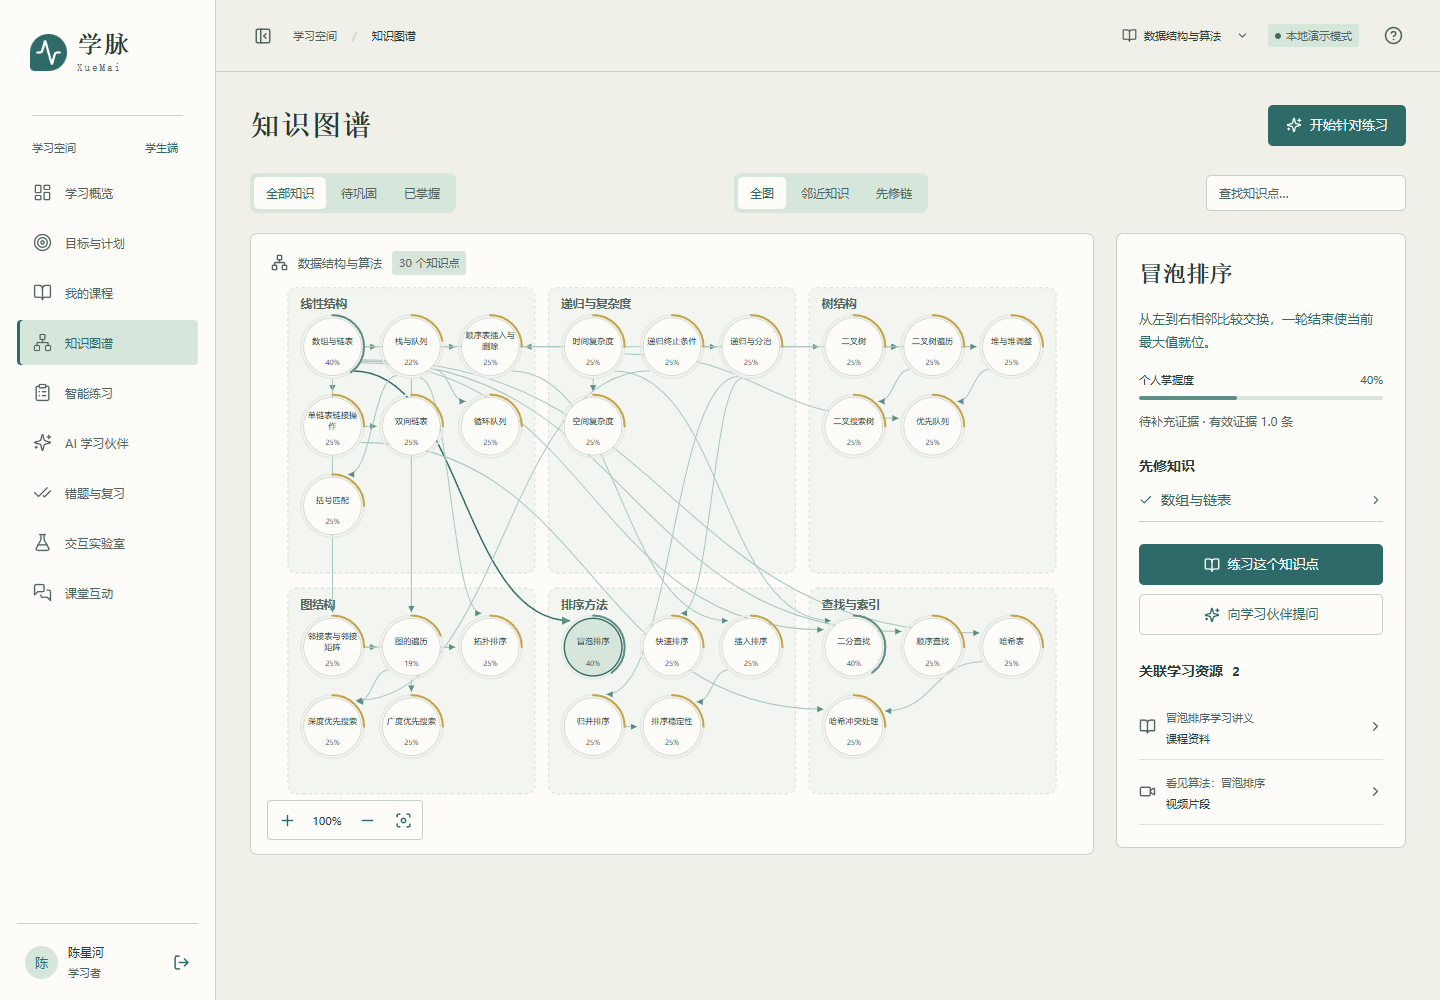
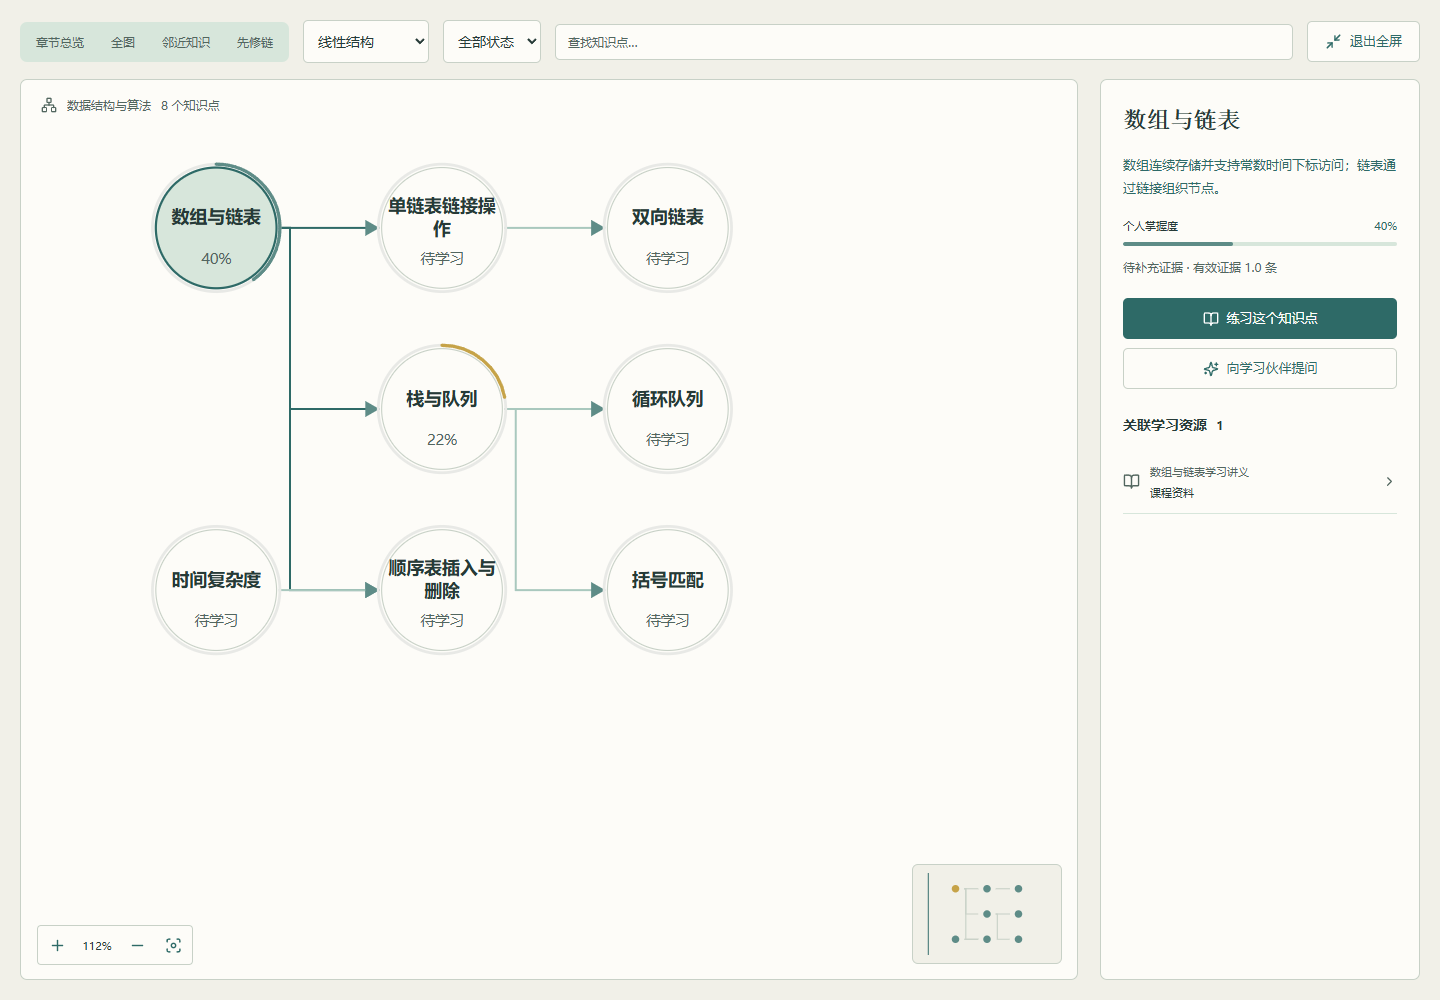
同步第三版架构接口与正式智能模式使用说明

diff --git a/docs/ARCHITECTURE.md b/docs/ARCHITECTURE.md
@@ -1,18 +1,18 @@
 # 架构与数据流
 
-版本0.2，2026年11月10日。前端采用React 19、TypeScript与Vite 6，后端采用Python 3.13、FastAPI与SQLite，按业务模块组织为单个服务。本机前端5173通过`/api`代理访问8000；上传文件保存在后端目录并按课程权限读取。
+版本0.3，2026年11月11日。前端采用React 19、TypeScript与Vite 6，后端采用Python 3.13、FastAPI与SQLite，按业务模块组织为单个服务。本机前端5173通过`/api`代理访问8000；上传文件保存在后端目录并按课程权限读取。
 
 ## 学习与教学共用的数据
 
 用户通过班级关联课程；课程下的章节、知识点及先修DAG连接题目、视频、讲义与实验。作答服务在一次事务内保存答案、评分、证据变化、错题与复习安排。主观题先等待教师确认，再使用同一证据方法更新。个人计划完成、播放进度、实验操作分别保存为事件，不直接增加知识估计。
 
-`evidence.py`统一提供时间折减Beta估计、提示与重复作答权重、错因规则和间隔复习；`learning.py`组织可执行推荐与先修路径。首页、图谱、辅导和教师分析查询同一套状态。模型定义、参数和验证范围见[算法说明](ALGORITHM_V2.md)。
+`evidence.py`统一提供时间折减Beta估计、提示、部分得分、重复与相关性权重、错因规则和间隔复习；`path_planner.py`以束宽24搜索满足先修与30分钟预算的路径，`learning.py`组织活动入口。首页、图谱、辅导和教师分析查询同一套状态。模型定义、参数和验证范围见[四项方法说明](ALGORITHMS_V3.md)。
 
 教师发布任务时保存目标学生的知识状态与有效证据量；结果页连接完成情况与发布前后对照。证据下钻保留题目、答案、提示和计算参数，便于教师决定后续安排。
 
 ## AI与检索
 
-AI服务集中管理后端密钥、模型参数、超时、限流和用量记录。SSE保存完整或中断会话，生成草稿经结构校验后交教师编辑审核。辅导返回受支持动作类型，后端从当前课程资源和习题中选择实际目标。理解检查复用正式作答服务，并在会话中保存检查结果。
+AI服务集中管理后端密钥、模型参数、超时、限流和用量记录。SSE保存完整或中断会话，生成草稿经结构校验后交教师编辑审核。辅导返回受支持动作类型，后端从当前课程资源和习题中选择实际目标。DIA-GUIDE由诊断、策略、校验三个角色编排，每轮最多一次模型生成；理解检查复用正式作答服务，并将反馈写入teaching_runs供下一轮调整表征。正式启动auto模式有Key时使用DeepSeek，常规测试显式Mock。
 
 资源上传、编辑和删除进入索引变更队列，检索时消费变更，按资源版本维护FTS5片段，未修改资源不重复建索引。引用保留资源、版本、片段和课程信息。常规测试使用Mock，界面集中展示当前模式。
 
@@ -22,6 +22,10 @@ AI服务集中管理后端密钥、模型参数、超时、限流和用量记录
 
 ## 数据演进与访问范围
 
-迁移004、005、006依次加入证据及调度、教学动作和增量索引。内容版本扩充六主题30节点课程，匹配已有知识点并保留自建内容。旧第二体验学生停用，历史记录保留，多学生模型继续可用。
+迁移004—007依次加入证据调度、教学动作、增量索引与协作运行记录。内容修订3000扩充到六主题31节点；修订3001通过正式业务函数生成27名差异化合成学生，与主体验学生组成28人班级，另一课程班14人。固定种子与幂等标识保留已有自建内容和学习历史。
 
 服务端持久化随机会话与密码散列；每次课程读取验证教师所有权或学生班级归属。学生题目列表不返回答案或诊断映射。资料按不可信内容处理，不能授权业务操作。AI解释与客观评分、状态计算和任务发布分开执行。
+
+## 学情与图谱
+
+ELK.js分层布局与正交路由支持章节总览、章节网络、局部关系和全图。全屏工作区保留选择与视角。LearningCharts展示个人领域、四技能、14天趋势和活动，教师矩阵支持章节、学生、状态筛选和单元格下钻。learning_insights批量投影学情，CLASS-LOOP对六维错因特征作确定性k-medoids分组，匹配已审核题后沿正常作业流程发布。

diff --git a/README.md b/README.md
@@ -2,13 +2,13 @@
 
 面向师生的 AI 个性化智慧教育平台，为第九届传智杯 AI 创新应用挑战赛原创开发。课程、知识图谱、视频、习题、辅导和分层教学共享真实 SQLite 数据。
 
-当前主分支为0.2：宋瓷青绿学生端、茶烟米褐教师端、六主题30节点课程、时间折减证据模型、间隔复习与结构化辅导。可阅读[30页技术文档](docs/deliverables/xuemai-technical-report.pdf)、观看[7分钟1080p配音字幕演示](docs/deliverables/xuemai-demo-1080p.mp4)，或查看[本轮验证](docs/VALIDATION.md)和[改版对照](docs/DESIGN_TOKENS.md)。[0.1发行历史](https://github.com/Sunny1004-7/xuemai-ai-platform/releases/tag/v0.1.0)保留，内容对应旧版，不替代当前主分支。
+当前主分支为0.3：宋瓷青绿学生端、茶烟米褐教师端、六主题31节点渐进式全屏图谱、28人合成教学班，以及知识追踪、约束路径、协作辅导、动态分层四项方法。可阅读[26页技术文档](docs/deliverables/xuemai-technical-report.pdf)、观看[7分钟1080p配音字幕演示](docs/deliverables/xuemai-demo-1080p.mp4)，或查看[方法定义与对照](docs/ALGORITHMS_V3.md)、[本轮验证](docs/VALIDATION.md)和[设计规范](docs/DESIGN_TOKENS.md)。[0.1发行历史](https://github.com/Sunny1004-7/xuemai-ai-platform/releases/tag/v0.1.0)保留，内容对应旧版。
 
 ![学脉课程知识图谱](docs/screenshots/knowledge-graph.png)
 
 ## 人工审阅一键启动
 
-在Windows中双击根目录的 **启动学脉.cmd**，前后端就绪后自动打开浏览器。首次启动会准备缺少的依赖，重复点击会复用本项目服务，单端退出时会补启该端。新启动的后端使用本地Mock。
+在Windows中双击根目录的 **启动学脉.cmd**，前后端就绪后自动打开浏览器。首次启动会准备缺少的依赖，重复点击会复用本项目服务，单端退出时会补启该端。默认自动选择AI模式：后端配置有效Key时使用DeepSeek官方接口，无Key时使用Mock。离线检查可运行 `.\scripts\start.ps1 -MockAI`。
 
 审阅地址为 http://127.0.0.1:5173 。账号student1和teacher的演示密码均为Xuemai123!。停止可在项目PowerShell运行 `powershell.exe -NoProfile -ExecutionPolicy Bypass -File scripts/stop.ps1`。
 
@@ -64,7 +64,7 @@ cd xuemai-ai-platform
 
 ## AI 模式与额度
 
-默认 `AI_MODE=mock`，无需密钥即可完整本地回归，界面明确标记本地演示。Mock 是固定教学样例，不冒充真实模型结果。
+默认 `AI_MODE=auto`，后端有Key时使用DeepSeek，无Key时使用Mock；`AI_MODE=mock` 明确覆盖自动模式。辅导功能区显示当前模式。Mock为固定教学样例，普通测试、截图和录制均显式使用Mock。
 
 正式按需使用：把 `.env.example` 中所需变量设置到后端环境，或保留已被忽略的根目录 `deepseek官方api.txt`，然后：
 
@@ -75,7 +75,7 @@ $env:DEEPSEEK_API_KEY = '<仅本机设置，不写入代码>'
 
 `.env.example` 是变量清单，启动器不会自动解析 `.env`。密钥只在后端读取。模型、输出上限、超时与每分钟请求数均集中配置，默认不重试。模型依据 [DeepSeek 官方接口](https://api-docs.deepseek.com/zh-cn/)选择 `deepseek-flash`，结构化生成按 [JSON Output 规范](https://api-docs.deepseek.com/zh-cn/guides/json_mode/)校验。
 
-常规测试、CI、浏览器回归均 **0 次真实请求**。真实烟测为显式单独命令，累计硬上限 5 次、发送前持久记账、异常即停止、单次最多 256 输出 Tokens；不要把烟测加入普通测试。2026-11-03 已完成连通性、流式、JSON 各 1 次，合计 3 次、220 Tokens。账本在被忽略的 `data/ai-smoke-ledger.json`，不可为重新测试而删除。
+常规测试、CI、浏览器回归均 **0 次真实请求**。历史烟测账本保留3次、220 Tokens，不重置。本次升级另以独立账本完成辅导、出题、备课、量规评阅4次抽样，输入3744、输出724 Tokens，零重试；已有该轮账本时脚本阻止再次运行。正式产品按正常教学请求调用，开发联调的次数上限不作为产品永久额度。结果见 [DeepSeek联调记录](docs/rounds/第三轮DeepSeek联调.json)。
 
 ## 结构与验证
 

diff --git a/docs/DESIGN_TOKENS.md b/docs/DESIGN_TOKENS.md
@@ -17,6 +17,7 @@
 | 月白松烟09/20 | #F7F6F2 / #E8E9E6 | --neutral / --border-neutral | 登录、共用表单、分隔 |
 | 雾蓝银灰02/20 | #607E95 / #A8C3D6 | --data / --data-soft | 独立数据系列 |
 | 槐黄石绿04/20 | #C6A348 | --accent | 复习到期和里程碑 |
+| 槐黄石绿04/20 | #6C7F4F | 教师--positive / --accent | 积极教学反馈与完成状态 |
 | 墨红金沙03/20 | #8C2F2D | --danger | 错误、删除 |
 
 正文分别使用#263A37和#352D29，主按钮使用白字。浅色板承担背景和图形层次，正文与表单标签使用深色中性值。选中、到期、未接触等状态同时保留文字、环形进度或描边。源码主题配置见frontend/src/styles/tokens.css。
@@ -39,9 +40,9 @@
 | 登录 | 深蓝大面积装饰与三个体验入口 | 中性纸白、明确表单、学生与教师两个入口 |
 | 学生工作台 | 数据卡与多组说明 | 下一任务、推荐原因、课程与近期活动 |
 | 教师工作台 | 与学生首页近似 | 课程操作、待评阅作答、具体困难与教学任务 |
-| 图谱 | 约8个矩形节点、固定坐标 | 30圆环节点、六簇自动布局、曲线方向、先修聚焦与详情 |
+| 图谱 | 约8个矩形节点、固定坐标 | 31圆环节点、ELK分层正交路由、章节渐进呈现、全屏与小地图 |
 | 学习工作区 | 重复卡片与较重装饰 | 练习聚焦作答，视频突出播放器与时间线，资料采用列表 |
-| 学情 | 聚合指标优先 | 知识点与作答证据相邻，连接定向任务和结果对照 |
+| 学情 | 聚合指标优先 | 28人知识矩阵、趋势、错因动态群组，下钻证据并安排匹配任务 |
 
 ![改版前图谱](screenshots/baseline-v0.1-knowledge-graph.png)
 
@@ -49,4 +50,4 @@
 
 ![当前教师工作台](screenshots/teacher-dashboard.png)
 
-完整截图覆盖1440×1000、1366×768、1920×1080与390×844。登录和实验窄屏溢出、课堂回答回看已修正。手机查看30节点全网时字号较小，需要搜索、聚焦与缩放；长资源和学情列表保留分段图供继续检查。
+完整截图覆盖1440×1000、1366×768、1920×1080与390×844。图谱默认章节总览，节点保持可读尺寸，通过搜索、聚焦、平移与小地图查看大图。资源每页9项、自然换行，长资料和学情页面保留分段图；本轮319张原色图与索引随审阅包交付。

diff --git a/docs/API_CONTRACT.md b/docs/API_CONTRACT.md
@@ -62,3 +62,13 @@
 - 课堂列表的`responses`对学生只返回本人回答，提交后与重新进入页面时均可回看；教师可见课程内全部回答。
 
 辅导结构化动作、理解检查与版本引用详见[AI接口](AI_API.md)。
+
+## 0.3新增输出
+
+- GET /api/learning/insights：当前学生课程内的领域知识、14天趋势、活动与技能表现。
+- GET /api/analytics?course_id=1&class_id=1：可选班级范围，返回热力矩阵、趋势、知识状态分布与CLASS-LOOP动态群组；省略class_id按课程全部班级聚合。
+- GET /api/recommendations：沿用原结构并增加PATH-G当次路径、预算、六项效用与搜索展开量。
+- POST /api/ai/chat：SSE完成事件的teaching.collaboration包含诊断、策略、校验与角色轨迹，最终content使用校验后的引用；每轮最多一次模型调用。
+- POST /api/ai/checks/{id}/answer：理解反馈关联实际作答并持久保存，下一轮同知识辅导读取反馈调整策略。
+
+正式AI模式默认auto，有后端Key时real；自动化测试显式mock。无评分证据的知识返回observed=false，界面显示待观测，不将先验均值作为已掌握比例。
